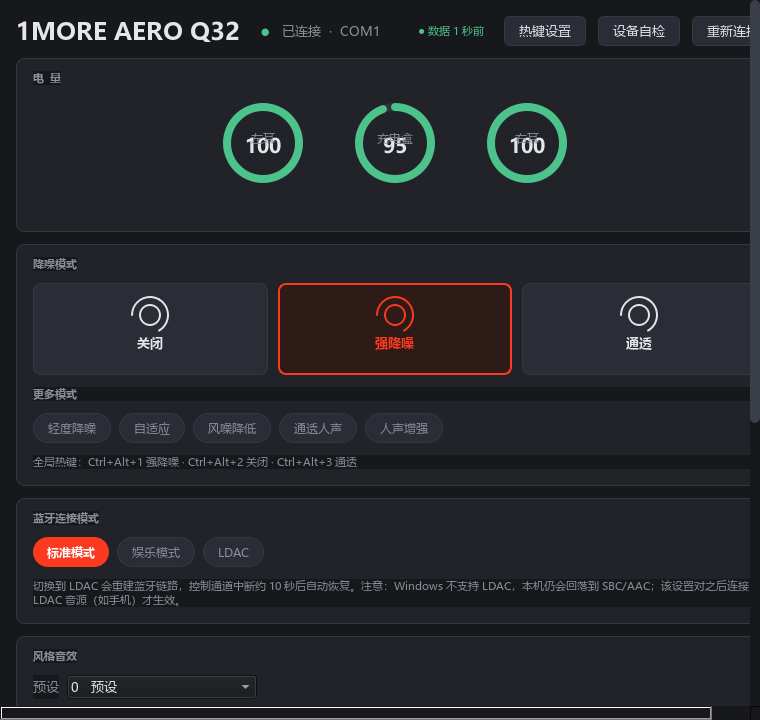
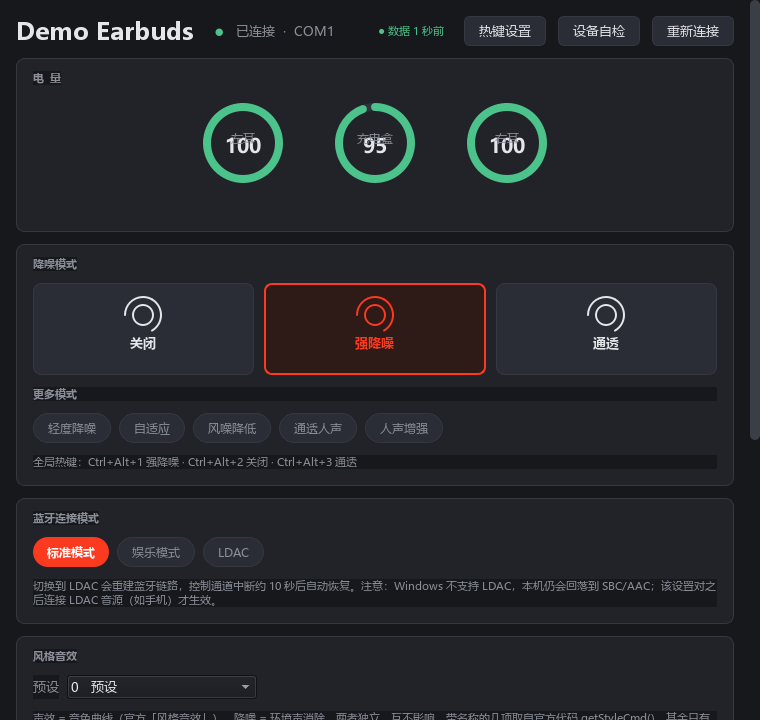
feat: 窗口标题自动识别设备名, 不再写死型号
设备友好名从系统注册表读取(Enum/BTHENUM 优先, BTHORT 兜底), 查不到则退回 MAC。新增 aero_q32.device_name(); CONTRIBUTING 补充构建说明(含 OpenBLAS 内存坑); 更新截图。

diff --git a/app.py b/app.py
@@ -31,6 +31,9 @@ BG, PANEL, PANEL_HI = "#17181C", "#212329", "#2A2D35"
 BORDER, TEXT, MUTED = "#343841", "#E4E6EA", "#8A8F99"
 ACCENT, OK, WARN = "#FB3A1F", "#4CC38A", "#E5A00D"
 
+APP_TITLE = "Earbuds Console"   # 应用名; 连接后会自动加上识别到的设备名
+APP_TITLE_ZH = "蓝牙耳机控制台"
+
 MAX_LOG_LINES = 400
 LOW_BATTERY = 20          # 低电量阈值 % (可被配置覆盖)
 HEARTBEAT_SEC = 60        # 无变化时的心跳日志间隔 (可被配置覆盖)
@@ -591,7 +594,8 @@ class HotkeyDialog(QDialog):
 class Window(QWidget):
     def __init__(self):
         super().__init__()
-        self.setWindowTitle("1MORE AERO Q32 · 控制台")
+        self._dev_name = None
+        self.setWindowTitle(APP_TITLE)
         # 演示模式(AERO_NODEV)只影响界面, 绝不写进生产日志,
         # 否则日志里会混入假数据, 排查真实问题时产生误导。
         self._demo = os.environ.get("AERO_NODEV") == "1"
@@ -635,10 +639,15 @@ class Window(QWidget):
         self.tick.start(1000)
 
         if os.environ.get("AERO_NODEV") == "1":
-            self.on_status({"state": "connected", "port": "COM1", "mac": "AABBCCDDEEFF"})
+            # 演示/截图模式: 不连设备, 用假设备名, 避免把真实型号写死进代码
+            self.on_status({"state": "connected", "port": "COM1", "mac": None})
+            self._dev_name = "Demo Earbuds"
+            self.lblDev.setText(self._dev_name)
+            self.setWindowTitle("%s · %s" % (self._dev_name, APP_TITLE))
+            self.tray.setToolTip(self._dev_name)
             self.on_battery({"left": 100, "right": 100, "case": 95})
             self.on_mode(1); self.on_connect(0)
-            for s in ("已打开 COM1  MAC AABBCCDDEEFF", "握手完成", "RX 电量   左100%   右100%   盒95%"):
+            for s in ("已打开 COM1", "握手完成", "RX 电量   左100%   右100%   盒95%"):
                 self.on_log(s)
         else:
             self.w.start()
@@ -652,7 +661,8 @@ class Window(QWidget):
         root = QVBoxLayout(page); root.setContentsMargins(16, 16, 16, 16); root.setSpacing(12)
 
         top = QHBoxLayout()
-        t = QLabel("1MORE AERO Q32"); t.setObjectName("big"); top.addWidget(t)
+        self.lblDev = QLabel(APP_TITLE); self.lblDev.setObjectName("big")
+        top.addWidget(self.lblDev)
         top.addSpacing(8)
         self.dot = QLabel("●"); self.dot.setStyleSheet("color:%s;font-size:16px;" % WARN); top.addWidget(self.dot)
         self.st = QLabel("连接中…"); self.st.setObjectName("muted"); top.addWidget(self.st)
@@ -770,7 +780,7 @@ class Window(QWidget):
     def _build_tray(self):
         icon = QIcon(res_path("icon.ico"))
         self.tray = QSystemTrayIcon(icon, self)
-        self.tray.setToolTip("1MORE AERO Q32")
+        self.tray.setToolTip(APP_TITLE)
         m = QMenu()
         act_show = QAction("显示窗口", self); act_show.triggered.connect(self.show_normal)
         m.addAction(act_show); m.addSeparator()
@@ -842,8 +852,9 @@ class Window(QWidget):
         lo = min([v for v in (b.get("left"), b.get("right"), b.get("case")) if v is not None] or [100])
         self.menu_batt.setText("电量  左%s%%  盒%s%%  右%s%%" %
                                (b.get("left"), b.get("case"), b.get("right")))
-        self.tray.setToolTip("1MORE AERO Q32\n电量 左%s%% / 盒%s%% / 右%s%%"
-                             % (b.get("left"), b.get("case"), b.get("right")))
+        self.tray.setToolTip("%s\n电量 左%s%% / 盒%s%% / 右%s%%"
+                             % (self._dev_name or APP_TITLE,
+                                b.get("left"), b.get("case"), b.get("right")))
         self._last_data = time.time()
         if lo <= self.LOW and not self._low_warned:
             self._low_warned = True
@@ -906,6 +917,13 @@ class Window(QWidget):
         if state == "connected":
             self.dot.setStyleSheet("color:%s;font-size:16px;" % OK)
             self.st.setText("已连接" + ("  ·  " + s["port"] if s.get("port") else ""))
+            # 设备名从系统注册表读, 读不到就退回 MAC, 再不济用通用名
+            self._dev_name = A.device_name(s.get("mac")) or (s.get("mac") or None)
+            shown = self._dev_name or APP_TITLE
+            self.lblDev.setText(shown)
+            self.setWindowTitle(shown if shown == APP_TITLE
+                                else "%s · %s" % (shown, APP_TITLE))
+            self.tray.setToolTip(shown)
         elif state == "busy":
             self.dot.setStyleSheet("color:%s;font-size:16px;" % ACCENT); self.st.setText("串口被占用")
         elif state == "connecting":
@@ -1044,7 +1062,7 @@ if __name__ == "__main__":
         A.log().warning("检测到已有实例, 本次启动退出")
         QMessageBox.information(
             None, "已在运行",
-            "1MORE AERO Q32 控制台已经在运行了。\n\n"
+            "%s 已经在运行了。\n\n" % APP_TITLE +
             "同时开两个实例会互相抢占蓝牙串口和全局热键，"
             "导致其中一个连不上耳机。\n\n"
             "请从系统托盘图标（右下角）操作：右键可直接切换模式，"

diff --git a/aero_q32.py b/aero_q32.py
@@ -828,3 +828,52 @@ def format_report(rep):
     for h in rep.get('hints', []):
         L.append('  - ' + h)
     return chr(10).join(L)
+
+# ============================ 设备名识别 ============================
+
+def device_name(mac):
+    '''由设备 MAC 查出系统记录的蓝牙设备友好名。
+
+    用途: 窗口标题 / 托盘提示 显示真实设备名, 而不是写死某个型号。
+    只读注册表, 不需要管理员权限; 查不到返回 None。
+    '''
+    if not mac:
+        return None
+    key = str(mac).upper().replace(':', '').replace('-', '')
+    if len(key) != 12:
+        return None
+    try:
+        import winreg
+    except Exception:
+        return None                      # 非 Windows
+
+    # 方法 A: 设备节点的 FriendlyName (最稳定, 无需管理员)
+    try:
+        base = 'SYSTEM' + chr(92) + 'CurrentControlSet' + chr(92) + 'Enum' + chr(92) + \
+               'BTHENUM' + chr(92) + 'DEV_' + key
+        with winreg.OpenKey(winreg.HKEY_LOCAL_MACHINE, base) as k:
+            for i in range(winreg.QueryInfoKey(k)[0]):
+                sub = winreg.EnumKey(k, i)
+                try:
+                    with winreg.OpenKey(k, sub) as sk:
+                        v = winreg.QueryValueEx(sk, 'FriendlyName')[0]
+                        if v:
+                            return str(v)
+                except FileNotFoundError:
+                    continue
+    except Exception:
+        pass
+
+    # 方法 B: BTHPORT 下存的 Name (REG_BINARY, UTF-8, 末尾带 NUL)
+    try:
+        p = 'SYSTEM' + chr(92) + 'CurrentControlSet' + chr(92) + 'Services' + chr(92) + \
+            'BTHPORT' + chr(92) + 'Parameters' + chr(92) + 'Devices' + chr(92) + key
+        with winreg.OpenKey(winreg.HKEY_LOCAL_MACHINE, p) as k:
+            d, typ = winreg.QueryValueEx(k, 'Name')
+            if isinstance(d, bytes):
+                v = d.rstrip(b'\x00').decode('utf-8', 'replace')
+                if v:
+                    return v
+    except Exception:
+        pass
+    return None

diff --git a/CONTRIBUTING.md b/CONTRIBUTING.md
@@ -38,6 +38,43 @@ The `probe` command only issues read-only queries, so it is safe to run and past
 * Comments explain *why*, not *what*. Note anything that looks wrong but is actually correct
   (for example device-side quirks) so nobody "fixes" it later.
 
+## Building a standalone exe
+
+```bat
+pip install pyinstaller
+python -m PyInstaller --onefile --windowed --icon icon.ico ^
+  --add-data "icon.ico;." --name AeroQ32 app.py
+```
+
+### If the build dies with an OpenBLAS memory error
+
+```
+OpenBLAS error: Memory allocation still failed after 10 retries, giving up.
+PyInstaller.isolated._parent.SubprocessDiedError
+```
+
+PyInstaller inspects installed packages while discovering hooks, which can end up importing
+numpy/OpenBLAS. OpenBLAS sizes its buffers by CPU count, so on a machine with many cores and a
+small page file it can run out of memory. Two fixes:
+
+**1. Cap the thread count (quick)**
+
+```bat
+set OPENBLAS_NUM_THREADS=1
+set OMP_NUM_THREADS=1
+```
+
+**2. Build in a clean virtualenv (recommended for releases)**
+
+It also produces a smaller exe, since numpy/scipy are not pulled in:
+
+```bat
+python -m venv .buildenv
+.buildenv\Scripts\pip install pyserial PySide6 pyinstaller
+.buildenv\Scripts\python -m PyInstaller --onefile --windowed --icon icon.ico ^
+  --add-data "icon.ico;." --name AeroQ32 app.py
+```
+
 ## Architecture
 
 ```
